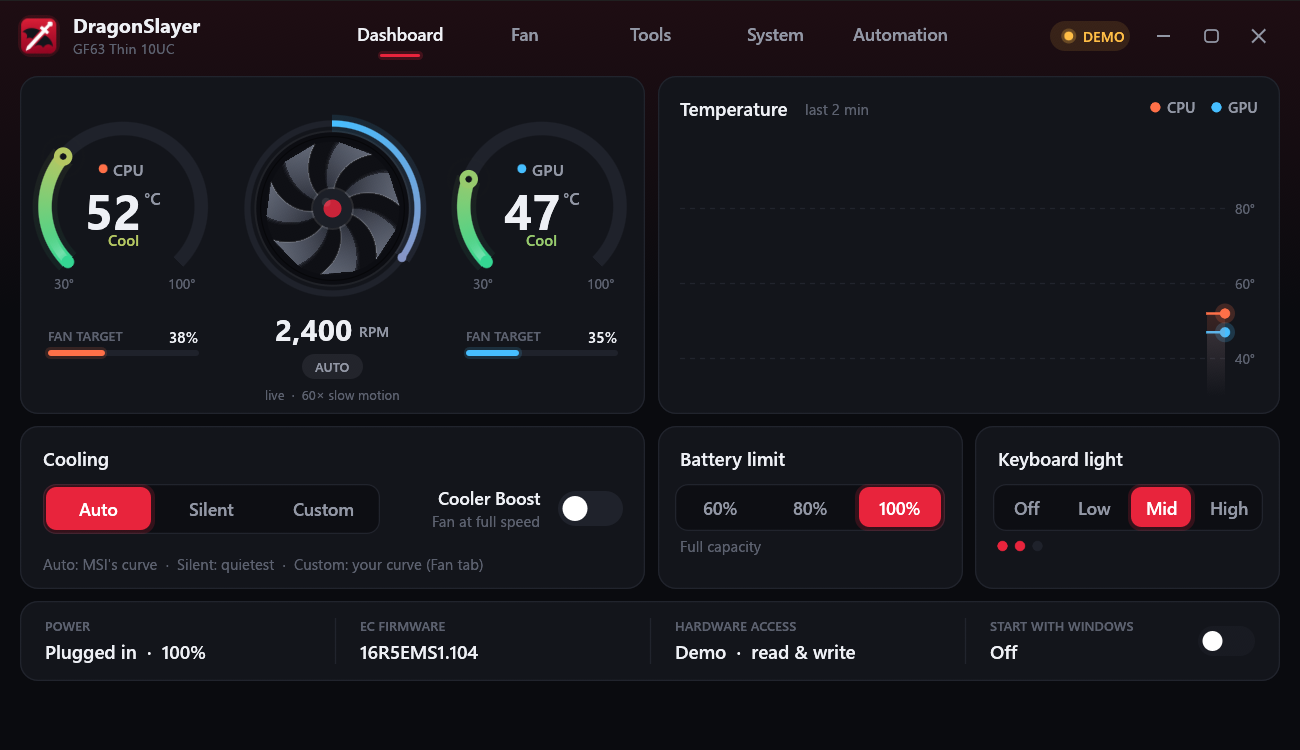
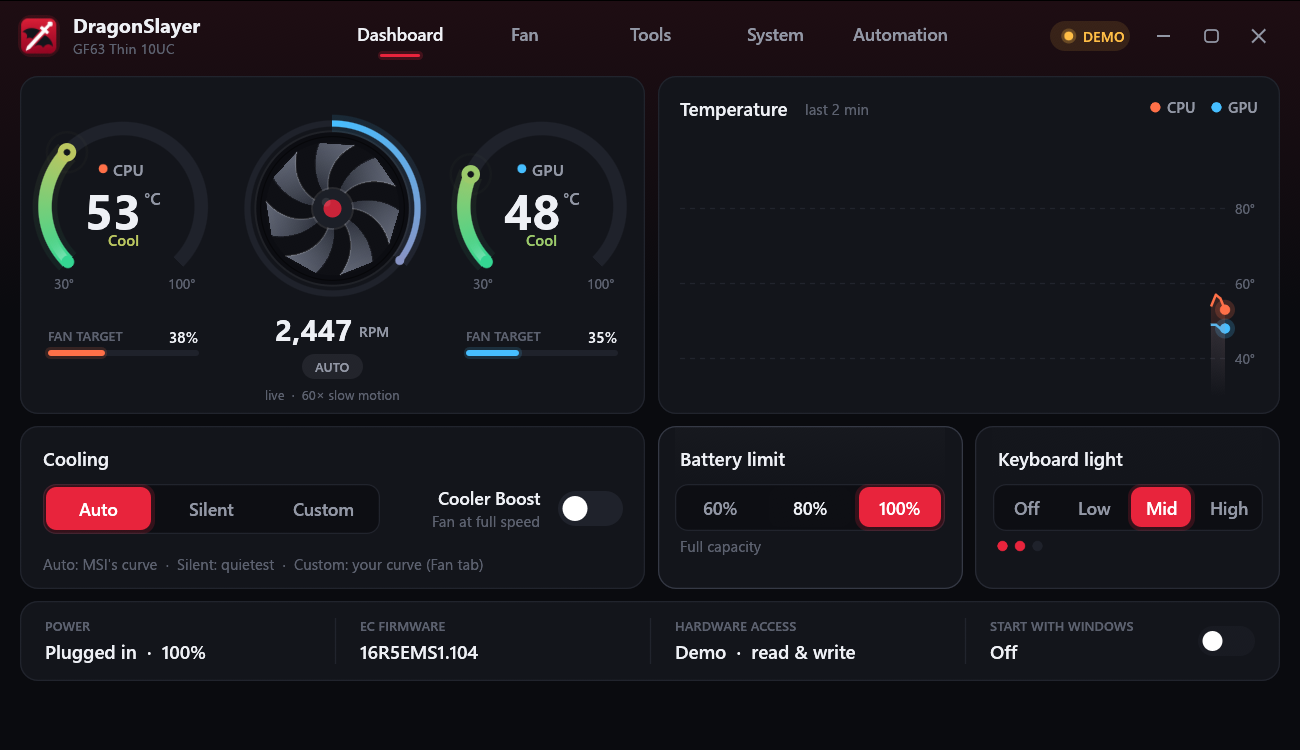
Tune fan presets from a measurement; fix 144 Hz redraw CPU burn
- research/measure-fan.ps1 measured this laptop: RPM = 59.5 x percent,
  light-use temperatures barely depend on fan speed, the fan needs ~25 s
  to spin up while load lifts the CPU 20 C in seconds, and idle sits on
  the 64 C curve step. Quiet/Cool/Max rebuilt on that: one speed across
  55-73 C (no hunting), ramping from 73 C. Data and notes in research/
  and docs/.
- Fix: live readings change every second and egui's animate_* redraws at
  the full refresh rate while a value changes, which kept one core busy
  on a 144 Hz screen. Live values now ease on the paced 60 fps frames.
  Demo mode wobbles its readings so this shows up without hardware.
- Curve editor shows the RPM for the bar under the pointer.
- install.ps1 reports a cancelled admin prompt instead of an old log.

diff --git a/src/bin/dragonslayer.rs b/src/bin/dragonslayer.rs
@@ -259,6 +259,15 @@ fn spawn_worker<B: EcBackend + 'static>(
             tick = tick.wrapping_add(1);
 
             let mut status = ctl.status();
+            // demo: make the readings move every second like a real laptop's.
+            // (Still demo data hid a bug where each change of a live reading
+            // made the UI redraw at the full refresh rate.)
+            if !persist && let Ok(st) = &mut status {
+                let wobble = |salt: u32, span: u32| (tick.wrapping_mul(2_654_435_761).rotate_left(salt) % span) as u8;
+                st.cpu_temp_c += wobble(3, 6);
+                st.gpu_temp_c += wobble(7, 3);
+                st.fan_rpm += u16::from(wobble(11, 120));
+            }
 
             // automation: heat protection, on-battery profile
             let mut auto_msg = None;
@@ -923,6 +932,23 @@ fn arc(p: &Painter, c: Pos2, r: f32, w: f32, a0: f32, a1: f32, color: impl Fn(f3
 const A0: f32 = 0.75 * PI; // 135°, bottom-left
 const SWEEP: f32 = 1.5 * PI; // 270°
 
+/// Eases a live reading toward `target` (time constant `tau` seconds) without
+/// asking for repaints. egui's own animate_* helpers redraw at the screen's
+/// full refresh rate while a value is changing; live readings change every
+/// second, so on a 144 Hz screen that kept one CPU core busy. Frames come
+/// from the Dashboard's 60 fps pacing (or the once-a-second data tick).
+fn ease(ctx: &egui::Context, id: Id, target: f32, tau: f32) -> f32 {
+    let dt = ctx.input(|i| i.stable_dt).min(0.25);
+    ctx.data_mut(|d| {
+        let v = d.get_temp_mut_or(id, target);
+        *v += (target - *v) * (1.0 - (-dt / tau).exp());
+        if (target - *v).abs() < 0.02 {
+            *v = target;
+        }
+        *v
+    })
+}
+
 /// Temperature gauge sized to its column. `now` (seconds) drives the
 /// animation: a pulse ring on the arc's tip (faster and wider when hot) and
 /// a shine that runs along the filled arc. `target` is the fan speed this
@@ -930,8 +956,8 @@ const SWEEP: f32 = 1.5 * PI; // 270°
 #[allow(clippy::too_many_arguments)]
 fn gauge(ui: &Ui, r: Rect, id: Id, name: &str, accent: Color32, temp: u8, target: u8, now: f64) {
     let p = ui.painter();
-    let shown = ui.ctx().animate_value_with_time(id, temp as f32, 0.6);
-    let target_shown = ui.ctx().animate_value_with_time(id.with("target"), target as f32, 0.6);
+    let shown = ease(ui.ctx(), id, temp as f32, 0.25);
+    let target_shown = ease(ui.ctx(), id.with("target"), target as f32, 0.25);
     let f = temp_frac(shown);
 
     let rad = ((r.width() - 40.0) / 2.0).min(70.0);
@@ -1565,7 +1591,7 @@ impl App {
         gauge(ui, Rect::from_min_size(gtop, vec2(side, 240.0)), Id::new("g_cpu"), "CPU", CPU_C, st.cpu_temp_c, st.cpu_fan_pct, now);
         gauge(ui, Rect::from_min_size(gtop + vec2(side + mid, 0.0), vec2(side, 240.0)), Id::new("g_gpu"), "GPU", GPU_C, st.gpu_temp_c, st.gpu_fan_pct, now);
 
-        let rpm = ui.ctx().animate_value_with_time(Id::new("rpm"), f32::from(st.fan_rpm), 0.8);
+        let rpm = ease(ui.ctx(), Id::new("rpm"), f32::from(st.fan_rpm), 0.35);
         // spin: locked to the tachometer, in exact SLOW_MO slow motion (one
         // turn on screen = 60 real turns). The real 40-115 turns a second
         // can't be shown on a 60 Hz screen: the blades would look frozen or
@@ -1867,6 +1893,11 @@ impl App {
             p.circle_filled(pos2(cx, top), if hover { 9.0 } else { 7.0 }, col.gamma_multiply(0.3));
             p.circle_filled(pos2(cx, top), if hover { 6.0 } else { 5.0 }, Color32::WHITE);
             p.text(pos2(cx, top - 16.0), Align2::CENTER_CENTER, format!("{}%", draft[i]), semibold(12.5), TEXT);
+            if hover {
+                // what that percentage means on this laptop (measured)
+                let rpm = (f32::from(draft[i]) * FanCurve::RPM_PER_PCT / 10.0).round() as u32 * 10;
+                p.text(pos2(cx, top - 31.0), Align2::CENTER_CENTER, format!("≈ {} RPM", thousands(rpm)), regular(11.0), DIM);
+            }
             p.text(pos2(cx, plot.bottom() + 16.0), Align2::CENTER_CENTER, step_label(&st.cpu_curve_temps, i), semibold(12.0), if i == cpu_step { CPU_C } else { DIM });
             p.text(pos2(cx, plot.bottom() + 33.0), Align2::CENTER_CENTER, step_label(&st.gpu_curve_temps, i), regular(11.0), if i == gpu_step { GPU_C } else { FAINT });
         }
@@ -1943,7 +1974,7 @@ impl App {
         if st.cooler_boost {
             status_line(p, pos2(now_r.left() + 18.0, now_r.bottom() - 20.0), "Cooler Boost overrides the curve", ACCENT);
         } else {
-            p.text(pos2(now_r.left() + 18.0, now_r.bottom() - 20.0), Align2::LEFT_CENTER, "The fan follows changes within seconds", regular(11.5), FAINT);
+            p.text(pos2(now_r.left() + 18.0, now_r.bottom() - 20.0), Align2::LEFT_CENTER, "The fan takes up to 30 s to change speed", regular(11.5), FAINT);
         }
     }
 
@@ -2302,7 +2333,7 @@ impl eframe::App for App {
             // ambient glow behind the title bar: stronger as the laptop gets
             // hotter, breathing slowly (the Dashboard redraws continuously)
             let hottest = status.as_ref().map_or(50.0, |s| f32::from(s.cpu_temp_c.max(s.gpu_temp_c)));
-            let heat_now = ui.ctx().animate_value_with_time(Id::new("ambient"), temp_frac(hottest), 1.5);
+            let heat_now = ease(ui.ctx(), Id::new("ambient"), temp_frac(hottest), 0.8);
             let breathe = 0.5 + 0.5 * (now as f32 * (0.6 + 1.2 * heat_now)).sin();
             let glow = 0.06 + 0.09 * heat_now + 0.025 * breathe * (0.4 + heat_now);
             vgradient(&p, Rect::from_min_size(full.min, vec2(full.width(), 230.0 + 60.0 * heat_now)), ACCENT.gamma_multiply(glow), Color32::TRANSPARENT);

diff --git a/src/ec/map.rs b/src/ec/map.rs
@@ -216,9 +216,29 @@ impl FanCurve {
     pub const MAX_PCT: u8 = 100;
     /// Read from this laptop's EC in Auto mode (same for CPU and GPU).
     pub const FACTORY: FanCurve = FanCurve([38, 43, 48, 54, 60, 70, 85]);
-    pub const QUIET: FanCurve = FanCurve([30, 34, 40, 47, 56, 70, 85]);
-    pub const COOL: FanCurve = FanCurve([45, 50, 56, 63, 72, 82, 95]);
-    pub const MAX: FanCurve = FanCurve([55, 62, 70, 78, 88, 96, 100]);
+
+    // Quiet / Cool / Max are tuned from a measurement of this laptop
+    // (research/measure-fan.ps1, 2026-11-17; docs/how-dragon-center-works.md):
+    // - RPM is close to 59.5 x percent (35 % = 2,080, 50 % = 2,990,
+    //   100 % = 5,770; Cooler Boost goes beyond the curve: 6,860).
+    // - In light use the CPU sits at 62-66 C whatever the fan does: 50 %,
+    //   65 % and 90 % differ by about 1 C and 5 C. So extra speed below 73 C
+    //   is mostly noise.
+    // - 62-66 C straddles the 64 C step, so a curve that changes there makes
+    //   the fan hunt up and down. Each preset holds ONE speed from 55 to 73 C.
+    // - Load pushes the CPU up 20 C within seconds, while the fan needs
+    //   about 25 s to go from 2,100 to 4,200 RPM. Starting a burst at 35 %
+    //   the CPU peaked at 92 C. So every preset is already ramping at 73 C
+    //   and 76 C instead of waiting for the hot end.
+    /// Light use at about 1,960 RPM (factory: 2,560-2,860), then up early.
+    pub const QUIET: FanCurve = FanCurve([30, 33, 33, 45, 58, 70, 85]);
+    /// Spinning faster before load arrives, to cut the peaks.
+    pub const COOL: FanCurve = FanCurve([45, 52, 52, 65, 75, 85, 95]);
+    /// As much as the curve allows: 100 % from 82 C.
+    pub const MAX: FanCurve = FanCurve([60, 66, 66, 80, 90, 100, 100]);
+
+    /// Measured on this laptop: fan RPM per percent of fan speed.
+    pub const RPM_PER_PCT: f32 = 59.5;
 
     pub fn new(speeds: [u8; CURVE_POINTS]) -> Option<Self> {
         let in_range = speeds.iter().all(|s| (Self::MIN_PCT..=Self::MAX_PCT).contains(s));
@@ -354,6 +374,15 @@ mod tests {
     fn fan_curve_rules() {
         for c in [FanCurve::FACTORY, FanCurve::QUIET, FanCurve::COOL, FanCurve::MAX] {
             assert_eq!(FanCurve::new(c.speeds()), Some(c), "presets must pass the rules");
+        }
+        // presets: each step up in name is at least as fast at every point,
+        // and none changes speed at the 64 C step this laptop idles on
+        let order = [FanCurve::QUIET, FanCurve::FACTORY, FanCurve::COOL, FanCurve::MAX];
+        for w in order.windows(2) {
+            assert!(w[0].speeds().iter().zip(w[1].speeds()).all(|(a, b)| *a <= b), "{w:?}");
+        }
+        for c in [FanCurve::QUIET, FanCurve::COOL, FanCurve::MAX] {
+            assert_eq!(c.speeds()[1], c.speeds()[2], "no hunting around 64 C");
         }
         assert_eq!(FanCurve::new([19, 43, 48, 54, 60, 70, 85]), None, "below minimum");
         assert_eq!(FanCurve::new([38, 43, 48, 54, 60, 70, 101]), None, "above 100");

diff --git a/docs/how-dragon-center-works.md b/docs/how-dragon-center-works.md
@@ -222,6 +222,52 @@ backlight, temps) so the bytes can be matched to it.
       match what Dragon Center shows right now
 - [ ] Only after all match: try one reversible write (keyboard backlight level)
 
+## Fan measurement and preset tuning (2026-11-17)
+
+`research/measure-fan.ps1` held flat custom curves and logged temperatures,
+fan targets and RPM every ~3 s (`research/fan-measure-2026-11-17.csv`).
+The laptop was in normal light use, not on a test bench.
+
+| Fan speed | RPM (settled) | Light use: CPU / GPU |
+|---|---|---|
+| 35 % | 2,080 | 64–67 °C / 60 °C (first 25 s, before a load burst) |
+| 45 % | 2,690 | |
+| 50 % | 2,990 | 62–66 °C / 59 °C |
+| 60 % | 3,570 | |
+| 65 % | 3,880 | 62–66 °C / 58 °C |
+| 80 % | 4,750 | about 62 °C / 61 °C |
+| 90 % | 5,125 (12 s, still rising) | about 60 °C / 60 °C |
+| 100 % | 5,770–5,925 | |
+| Cooler Boost | 6,860 | |
+
+What it shows:
+
+- **RPM ≈ 59.5 × percent.** Cooler Boost is faster than a 100 % curve.
+- **In light use the fan hardly matters.** 50 % and 65 % differ by about
+  1 °C, 50 % and 90 % by about 5 °C.
+- **The fan is slow, the CPU is fast.** 2,100 → 4,200 RPM takes about 25 s
+  (roughly 100 RPM per second, up or down). A load burst lifts the CPU
+  20 °C within seconds: 4 busy threads took it to 87 °C in under 3 s even
+  with the fan at 100 %, and a burst that began at 35 % peaked at 92 °C
+  while the fan was still spinning up. Fan speed changes the temperature
+  the CPU settles at, not the first spike.
+- **Idle sits on a curve step.** 62–66 °C straddles the 64 °C step, so the
+  factory curve flips between 43 % and 48 % (2,560 ↔ 2,860 RPM).
+
+Presets built on that (speeds for <55, 55, 64, 73, 76, 82, 88 °C on the CPU):
+
+| Preset | Curve | Idea |
+|---|---|---|
+| Quiet | 30 33 33 45 58 70 85 | one low speed (1,960 RPM) for 55–73 °C, then up early because the fan is slow |
+| Factory | 38 43 48 54 60 70 85 | MSI's own |
+| Cool | 45 52 52 65 75 85 95 | already spinning before load arrives |
+| Max | 60 66 66 80 90 100 100 | 100 % from 82 °C |
+
+Not measured: steady temperatures at 30–35 % over many minutes, and any of
+the presets under a long game load (the load step ended at once at 87 °C).
+If Quiet is too slow for some use, the CPU reaches 73 °C and the curve
+speeds up by itself.
+
 ## Sources
 
 - msi-ec driver: https://github.com/BeardOverflow/msi-ec (`msi-ec.c`, `CONF_G1_7`)
